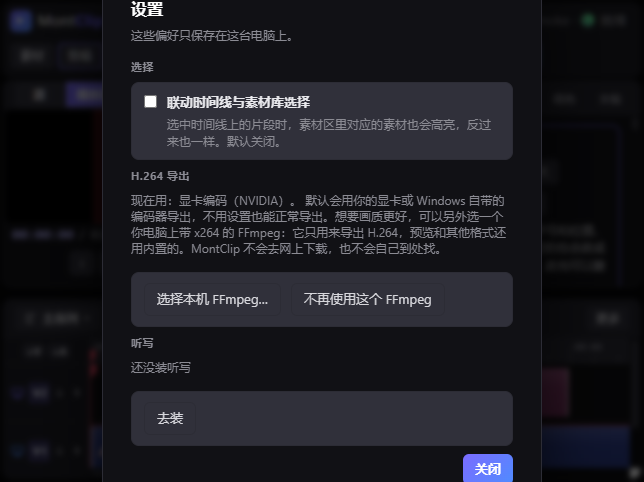
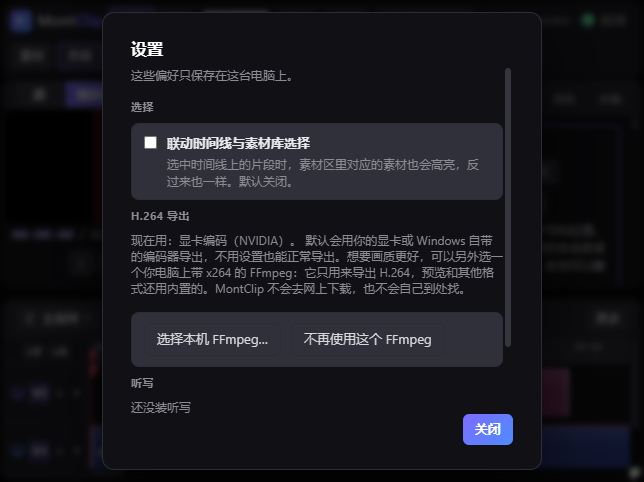
fix(dialogs): no box taller than the window, the tall ones scroll their middle (Deja on #88) — max-height: calc(100vh - 24px) on .dialog and, at no weight, on modal dialogs; the settings box and the transcription setup are columns whose .dialog-body scrolls while the title and the actions stay (wrap
Assisted-by: Cindy (https://cindy.app)

diff --git a/docs/demo/style.css b/docs/demo/style.css
@@ -51,6 +51,10 @@ body[data-mc-mode="simple"] .upper > .bin { grid-column: 3; grid-row: 1; }
 dialog:modal {
   margin: auto;
 }
+/* no taller than the window (Deja, #88); at no weight, so a dialog's own max-height still wins */
+:where(dialog:modal) {
+  max-height: calc(100vh - 24px);
+}
 dialog::backdrop {
   background: rgba(0, 0, 0, 0.45);
 }
@@ -3002,6 +3006,7 @@ body.track-size-s .clip.c-comp .comp-open-hint {
   border-radius: 12px;
   padding: 24px 28px;
   width: 420px;
+  max-height: calc(100vh - 24px);
   box-shadow: 0 20px 60px #000a;
 }
 
@@ -3321,6 +3326,17 @@ body.track-size-s .clip.c-comp .comp-open-hint {
 
 .dialog.settings {
   width: min(440px, 92vw);
+  display: flex;
+  flex-direction: column;
+}
+/* a box taller than the window (Deja, #88): its title and its actions stay, the middle scrolls */
+.dialog-body {
+  flex: 1 1 auto;
+  min-height: 0;
+  overflow: auto;
+}
+.dialog.settings > h2, .dialog.settings > .dialog-actions, .asr-setup > h2, .asr-setup > .dialog-actions {
+  flex: none;
 }
 
 .dialog.settings .settings-intro {
@@ -4844,6 +4860,7 @@ body[data-mc-mode] .upper > .inspector { grid-column:3; grid-row:1; }
 
 /* v10: the transcription setup page (app.js openAsrSetup) */
 .asr-setup { color: var(--text); background: var(--panel); border: 1px solid var(--border); border-radius: 10px; width: min(640px, 92vw); max-height: 86vh; padding: 20px 22px; }
+.asr-setup[open] { display: flex; flex-direction: column; overflow: hidden; }
 .asr-setup::backdrop { background: rgba(0, 0, 0, 0.45); }
 .asr-setup h2 { margin: 0 0 6px; font-size: 17px; }
 .asr-setup .dim { margin: 0 0 12px; }

diff --git a/style.css b/style.css
@@ -51,6 +51,10 @@ body[data-mc-mode="simple"] .upper > .bin { grid-column: 3; grid-row: 1; }
 dialog:modal {
   margin: auto;
 }
+/* no taller than the window (Deja, #88); at no weight, so a dialog's own max-height still wins */
+:where(dialog:modal) {
+  max-height: calc(100vh - 24px);
+}
 dialog::backdrop {
   background: rgba(0, 0, 0, 0.45);
 }
@@ -3002,6 +3006,7 @@ body.track-size-s .clip.c-comp .comp-open-hint {
   border-radius: 12px;
   padding: 24px 28px;
   width: 420px;
+  max-height: calc(100vh - 24px);
   box-shadow: 0 20px 60px #000a;
 }
 
@@ -3321,6 +3326,17 @@ body.track-size-s .clip.c-comp .comp-open-hint {
 
 .dialog.settings {
   width: min(440px, 92vw);
+  display: flex;
+  flex-direction: column;
+}
+/* a box taller than the window (Deja, #88): its title and its actions stay, the middle scrolls */
+.dialog-body {
+  flex: 1 1 auto;
+  min-height: 0;
+  overflow: auto;
+}
+.dialog.settings > h2, .dialog.settings > .dialog-actions, .asr-setup > h2, .asr-setup > .dialog-actions {
+  flex: none;
 }
 
 .dialog.settings .settings-intro {
@@ -4844,6 +4860,7 @@ body[data-mc-mode] .upper > .inspector { grid-column:3; grid-row:1; }
 
 /* v10: the transcription setup page (app.js openAsrSetup) */
 .asr-setup { color: var(--text); background: var(--panel); border: 1px solid var(--border); border-radius: 10px; width: min(640px, 92vw); max-height: 86vh; padding: 20px 22px; }
+.asr-setup[open] { display: flex; flex-direction: column; overflow: hidden; }
 .asr-setup::backdrop { background: rgba(0, 0, 0, 0.45); }
 .asr-setup h2 { margin: 0 0 6px; font-size: 17px; }
 .asr-setup .dim { margin: 0 0 12px; }

diff --git a/app.js b/app.js
@@ -9511,6 +9511,14 @@ function openAsrSetup(state) {
   asrSetup.state = state || null;
   paintAsrSetup();
 }
+/** A box taller than the window (Deja, #88): everything between its title and its actions goes into a .dialog-body that
+ *  scrolls, so the title and the actions stay in sight. */
+function wrapDialogBody(dialog) {
+  const body = document.createElement("div");
+  body.className = "dialog-body";
+  for (const n of [...dialog.childNodes]) if (!(n.nodeType === 1 && (n.matches("h2") || n.matches(".dialog-actions")))) body.append(n);
+  dialog.insertBefore(body, dialog.querySelector(":scope > .dialog-actions"));
+}
 function paintAsrSetup() {
   if (!asrSetup) return;
   const h = (k, v) => escapeHtml(uiText("own." + k, v)), d = asrState.downloading;
@@ -9536,6 +9544,7 @@ function paintAsrSetup() {
       <div class="dialog-actions"><button type="button" class="btn primary" data-asr-setup="download">${h(again)}</button>${later}</div>`;
   }
   asrSetup.dialog.innerHTML = html;
+  wrapDialogBody(asrSetup.dialog);
 }
 async function asrSetupClick(e) {
   const b = e.target.closest("[data-asr-setup]");

diff --git a/docs/demo/app.js b/docs/demo/app.js
@@ -9511,6 +9511,14 @@ function openAsrSetup(state) {
   asrSetup.state = state || null;
   paintAsrSetup();
 }
+/** A box taller than the window (Deja, #88): everything between its title and its actions goes into a .dialog-body that
+ *  scrolls, so the title and the actions stay in sight. */
+function wrapDialogBody(dialog) {
+  const body = document.createElement("div");
+  body.className = "dialog-body";
+  for (const n of [...dialog.childNodes]) if (!(n.nodeType === 1 && (n.matches("h2") || n.matches(".dialog-actions")))) body.append(n);
+  dialog.insertBefore(body, dialog.querySelector(":scope > .dialog-actions"));
+}
 function paintAsrSetup() {
   if (!asrSetup) return;
   const h = (k, v) => escapeHtml(uiText("own." + k, v)), d = asrState.downloading;
@@ -9536,6 +9544,7 @@ function paintAsrSetup() {
       <div class="dialog-actions"><button type="button" class="btn primary" data-asr-setup="download">${h(again)}</button>${later}</div>`;
   }
   asrSetup.dialog.innerHTML = html;
+  wrapDialogBody(asrSetup.dialog);
 }
 async function asrSetupClick(e) {
   const b = e.target.closest("[data-asr-setup]");

diff --git a/docs/demo/index.html b/docs/demo/index.html
@@ -506,6 +506,7 @@
 <div class="overlay hidden" id="settingsOverlay">
   <div class="dialog settings" id="settingsDialog" role="dialog" aria-modal="true" aria-labelledby="settingsTitle" tabindex="-1">
     <h2 id="settingsTitle" data-i18n="term.settings">Settings</h2>
+    <div class="dialog-body">
     <p class="dim settings-intro" data-i18n="term.preferences-are-stored-in-this-browser-only">Preferences are stored in this browser only.</p>
     <div class="settings-section">
       <h3 data-i18n="term.selection">Selection</h3>
@@ -531,6 +532,7 @@
       <div class="settings-row"><button class="btn" id="btnAsrSetup" type="button" data-i18n="own.asr-go-install">Install</button></div>
       <div id="setAsrPunct" hidden><p class="settings-hint" id="setAsrPunctText"></p>
         <div class="settings-row"><button class="btn" id="btnAsrPunct" type="button"></button></div></div>
+    </div>
     </div>
     <div class="dialog-actions"><button class="btn primary" id="btnCloseSettings" data-i18n="term.close">Close</button></div>
   </div>

diff --git a/index.html b/index.html
@@ -506,6 +506,7 @@
 <div class="overlay hidden" id="settingsOverlay">
   <div class="dialog settings" id="settingsDialog" role="dialog" aria-modal="true" aria-labelledby="settingsTitle" tabindex="-1">
     <h2 id="settingsTitle" data-i18n="term.settings">Settings</h2>
+    <div class="dialog-body">
     <p class="dim settings-intro" data-i18n="term.preferences-are-stored-in-this-browser-only">Preferences are stored in this browser only.</p>
     <div class="settings-section">
       <h3 data-i18n="term.selection">Selection</h3>
@@ -531,6 +532,7 @@
       <div class="settings-row"><button class="btn" id="btnAsrSetup" type="button" data-i18n="own.asr-go-install">Install</button></div>
       <div id="setAsrPunct" hidden><p class="settings-hint" id="setAsrPunctText"></p>
         <div class="settings-row"><button class="btn" id="btnAsrPunct" type="button"></button></div></div>
+    </div>
     </div>
     <div class="dialog-actions"><button class="btn primary" id="btnCloseSettings" data-i18n="term.close">Close</button></div>
   </div>
